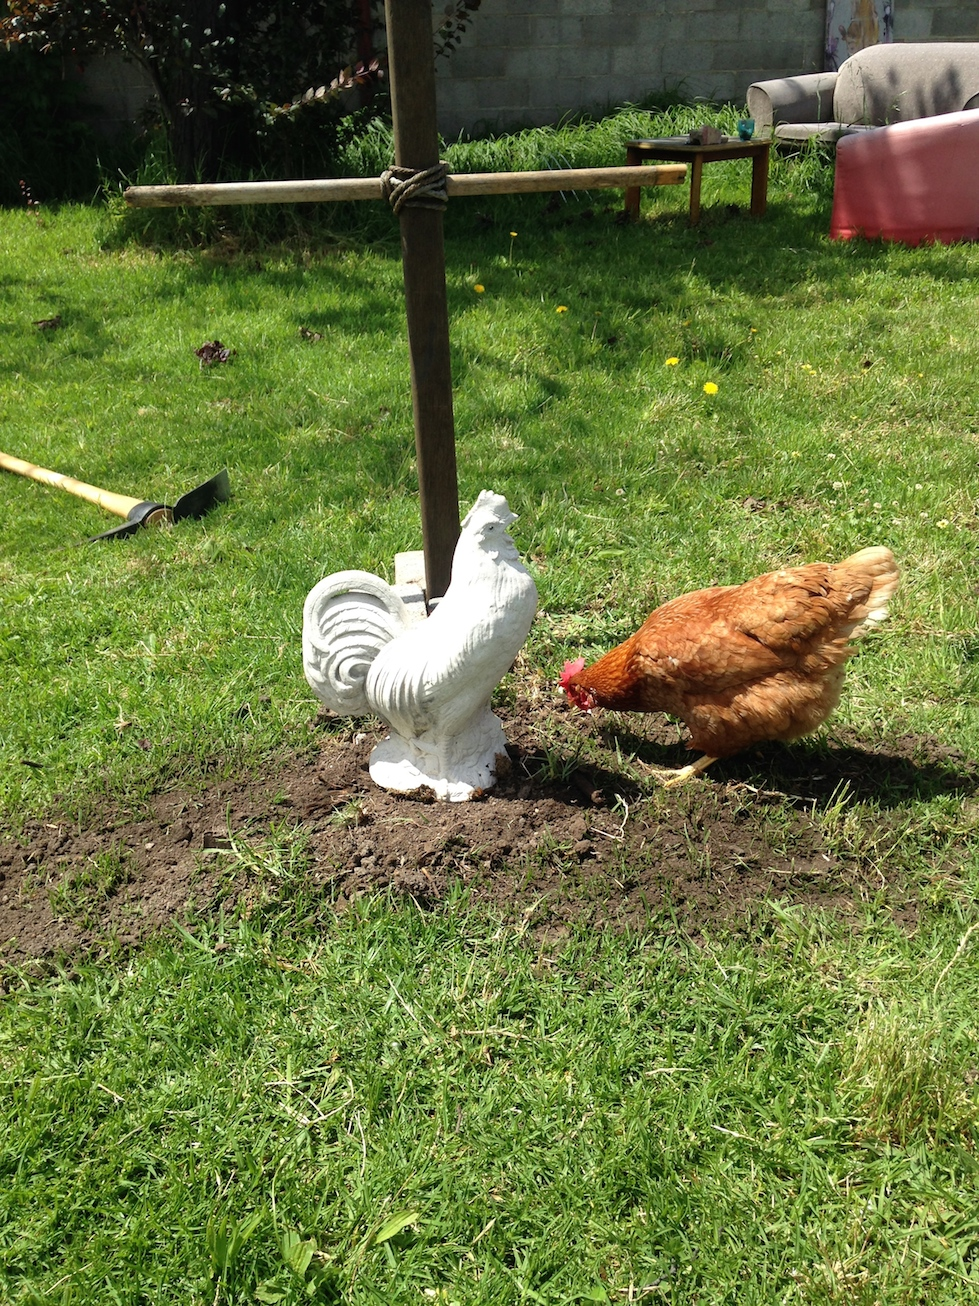
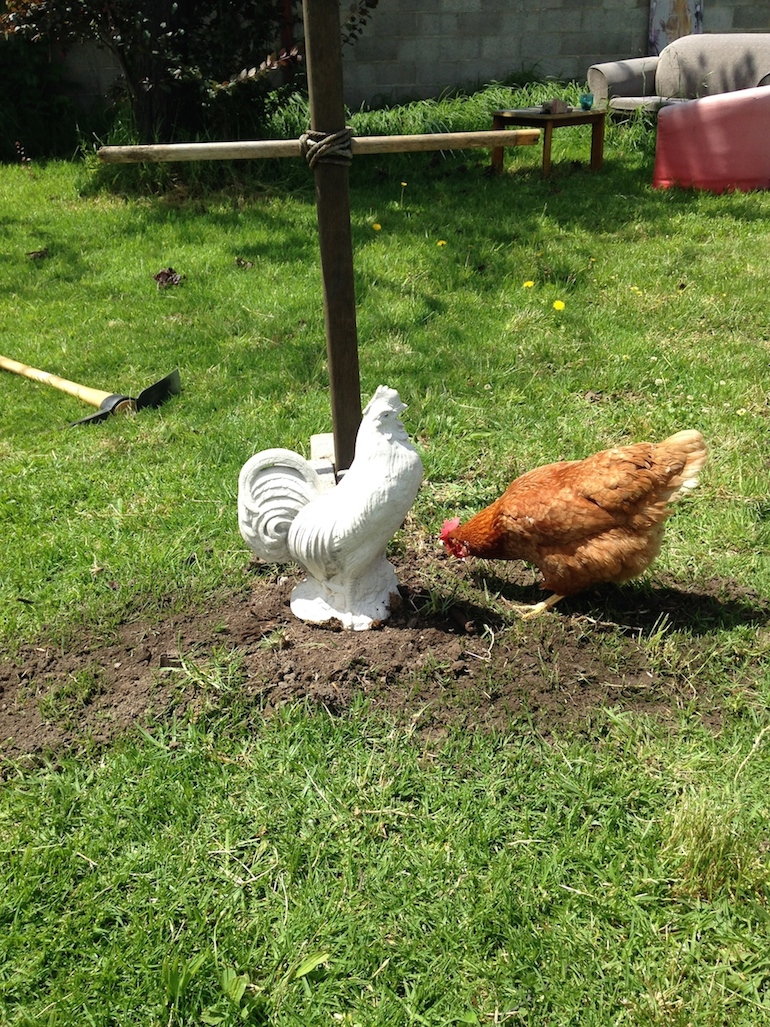
animalia

Changed region(s): [[0.8416, 0.592, 0.8727, 0.6232], [0.3117, 0.8101, 0.3429, 0.8413]]

diff --git a/animals/animalphotos/index.html b/animals/animalphotos/index.html
@@ -37,7 +37,7 @@
 <center><figure><img src="percyhux2.jpg" border="0"></figure></center>
         <P>&nbsp;<P>
     
-<center><figure><img src="pinacles.gif" border="0" width="400" height="500"></figure></center>
+<center><figure><img src="percy.gif" border="0" width="500" height="600"></figure></center>
 
 
     
